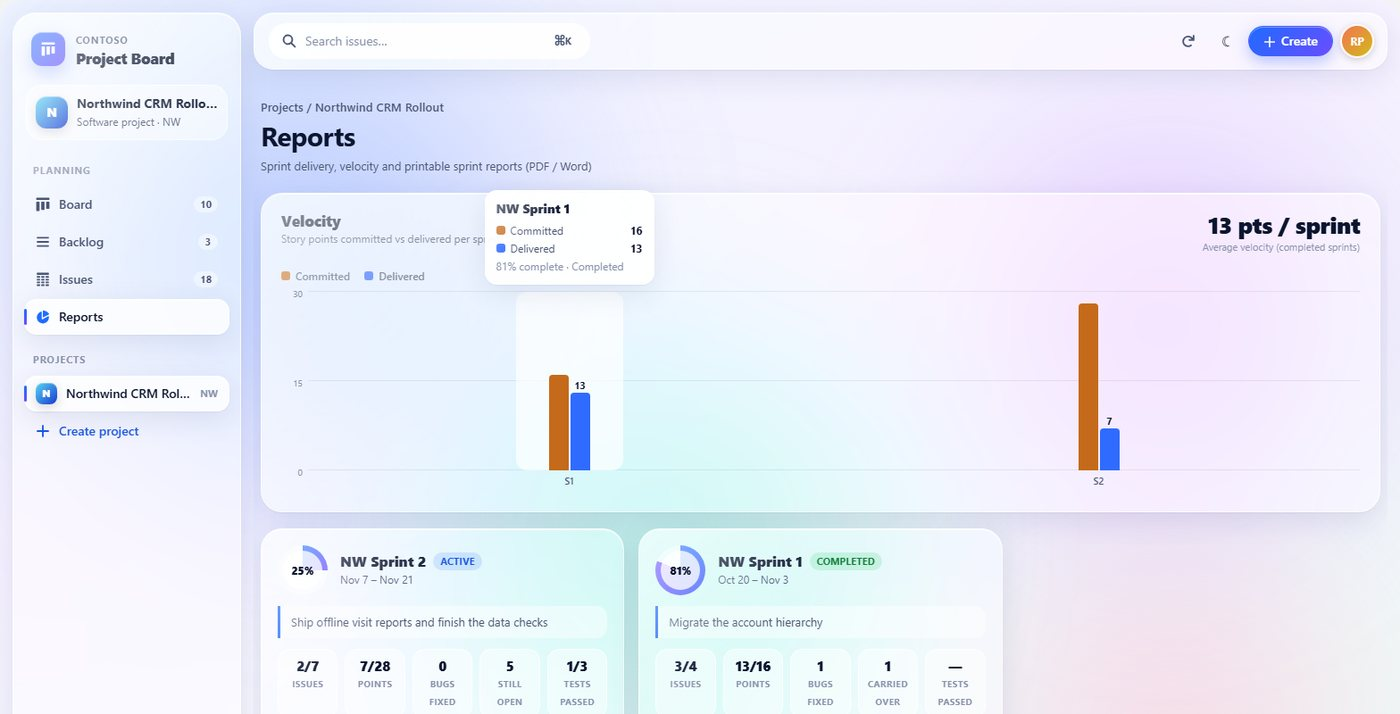
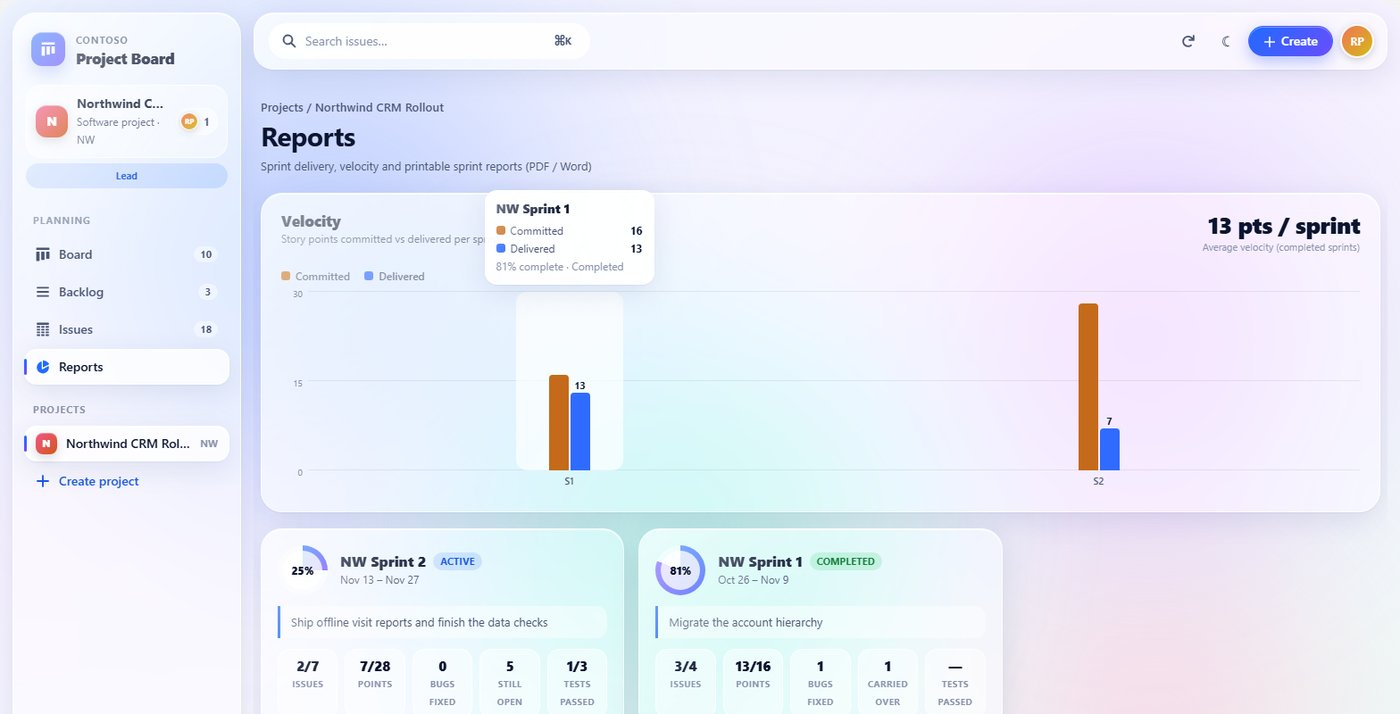
feat(portfolio): Project Board access, sign-off and keyboard on the case study
- New section: project membership with Apex managed sharing, recorded
  BRD sign-off, keyboard drag and drop with screen-reader announcements.
- Architecture layers, toolkit and practices updated.
- Screenshots refreshed from the demo org; new: keyboard move, members,
  issue workspace, sign-off and BRD PDF with the sign-off table.
- M portfolio facts updated to match the page.

diff --git a/salesforce-project-board.html b/salesforce-project-board.html
@@ -1,2 +1,2 @@
 <!DOCTYPE html>
-<html lang="en"><head><meta charset="utf-8"/><meta content="width=device-width,initial-scale=1" name="viewport"/><meta content="#070e19" name="theme-color"/><meta content="Technical case study: Salesforce Project Board by Ricardo Pinheiro. A Scrum-style board built on Salesforce with BRD and solution design, UAT test scripts, sprint reports and PDF / Word exports, in Apex, Lightning Web Components and Visualforce." name="description"/><meta content="index,follow" name="robots"/><link href="https://ricardo19-deve.github.io/salesforce-project-board.html" rel="canonical"/><meta content="Salesforce Project Board — Engineering Case Study | Ricardo Pinheiro" property="og:title"/><meta content="Scrum board, BRD, UAT test scripts and sprint reports built on Salesforce with Apex, LWC and Visualforce exports." property="og:description"/><meta content="article" property="og:type"/><meta content="https://ricardo19-deve.github.io/salesforce-project-board.html" property="og:url"/><meta content="https://ricardo19-deve.github.io/portrait.jpg" property="og:image"/><title>Salesforce Project Board — Engineering Case Study | Ricardo Pinheiro</title><link href="case-study.css" rel="stylesheet"/></head><body><div aria-hidden="true" class="scrollbar"></div><header class="top wrap"><a class="brand" href="index.html#projects">RP<span>.</span></a><nav aria-label="Page navigation" class="topnav"><a href="index.html#projects">← All projects</a><a href="index.html#certifications">Certifications</a><a href="index.html#contact">Connect</a></nav></header><main class="wrap"><section class="hero fade"><div class="eyebrow">ENGINEERING CASE STUDY / 02</div><h1>Salesforce Project Board<span class="gradient">.</span></h1><p class="lead">From requirement to release, inside Salesforce.</p><div class="status">Open-source module · Apex · Lightning Web Components · Visualforce · Experience Cloud</div></section><section aria-label="Project context" class="two fade"><div class="glass panel"><div class="small-label">THE CONTEXT</div><h2>What I set out to solve.</h2><p>Teams that deliver Salesforce changes often keep requirements in documents, tests in spreadsheets and the backlog in another tool. The links between a requirement, its test evidence and the sprint it shipped in get lost. This module brings them together on the platform the team already works in, published as a neutral open-source reference.</p></div><div class="glass panel"><div class="small-label">THE ENGINEERING QUESTION</div><h2>One place, every artefact linked.</h2><p>How can a team plan sprints, write the business requirements, run user acceptance tests and present what was delivered without leaving Salesforce, with every document traceable to the issue it belongs to?</p></div></section><section aria-label="Interactive architecture" class="architecture fade"><div class="section-heading"><div><div class="small-label">EXPLORE THE SYSTEM</div><h2 class="section-title">Architecture, <span class="gradient">layer by layer.</span></h2></div><p>Select a component to understand its responsibility. Simplified reference architecture, not a production infrastructure diagram.</p></div><div class="arch-layout"><div class="glass arch-map"><div class="arch-step"><span class="step-number">01</span><button aria-pressed="true" class="node active" data-detail="Lightning Web Components render the board, backlog, issue list, reports and the issue workspace. One design system with light and dark themes runs unchanged in a Lightning tab and in a full-screen Experience Cloud (LWR) portal." data-title="Board UI" type="button"><b>Board UI</b><span>Lightning Web Components</span></button></div><div aria-hidden="true" class="connector"></div><div class="arch-step"><span class="step-number">02</span><button aria-pressed="false" class="node" data-detail="Projects, sprints, issues, comments, BRDs, requirements and test cases. Issue keys come from a locked counter, ranks are fractional so a drag &amp; drop updates one record, and sprint snapshots keep committed versus delivered accurate after carry-over." data-title="Data model" type="button"><b>Data model</b><span>Seven custom objects</span></button></div><div aria-hidden="true" class="connector"></div><div class="arch-step"><span class="step-number">03</span><button aria-pressed="false" class="node" data-detail="Apex controllers run every query and write in user mode, behind a permission set. Updates sent by the browser pass a per-object field whitelist. Test cases can be generated from the acceptance criteria of the BRD." data-title="Apex services" type="button"><b>Apex services</b><span>User mode · whitelists</span></button></div><div aria-hidden="true" class="connector"></div><div class="arch-step"><span class="step-number">04</span><button aria-pressed="false" class="node" data-detail="Visualforce pages render the BRD, the test scripts and the sprint report as PDF or as an editable Word document. The figures match the Reports view, so what is presented is what the board shows." data-title="Document exports" type="button"><b>Document exports</b><span>Visualforce · PDF and Word</span></button></div></div><div aria-live="polite" class="glass panel detail"><div class="number" id="detail-num">LAYER 01 / 04</div><h3 id="detail-title">Board UI</h3><p id="detail-body">Lightning Web Components render the board, backlog, issue list, reports and the issue workspace. One design system with light and dark themes runs unchanged in a Lightning tab and in a full-screen Experience Cloud (LWR) portal.</p><div class="hint">↖ Select any architecture layer to explore</div></div></div></section><section aria-label="Planning and documentation" class="two fade"><div class="glass panel"><div class="small-label">PLANNING</div><h2>Board, backlog, sprints.</h2><p>A Kanban board of the active sprint with drag &amp; drop, quick filters and a progress ring. A backlog with sprint sections, an epics panel and inline quick create; completing a sprint moves open work to the backlog or the next sprint.</p><p>Every issue opens into a workspace with inline editing, comments, field history and tabs for its documents.</p></div><div class="glass panel"><div class="small-label">DOCUMENTATION</div><h2>Requirements that become tests.</h2><p>Each issue can carry a Business Requirements Document with solution design: impacted users and systems, numbered requirements with acceptance criteria, sign-off and solution screenshots.</p><p>UAT test scripts hold steps, expected and actual results, Pass / Fail / Blocked and evidence files. One click generates a test case for every acceptance criterion of the BRD, without AI.</p></div></section><section aria-label="Reports and design" class="two fade"><div class="glass panel"><div class="small-label">REPORTS &amp; EXPORTS</div><h2>Ready to present.</h2><p>A velocity chart compares committed and delivered points per sprint, and each sprint card shows completion, bugs fixed, carry-over and test pass rate.</p><p>The BRD, the test scripts and the sprint report export to PDF for presenting and to Word for editing, with the company name and logo configurable without code.</p></div><div class="glass panel"><div class="small-label">DESIGN SYSTEM</div><h2>Liquid glass, light and dark.</h2><p>Translucent surfaces, an animated background and spring-based motion, defined once as design tokens and inherited by every component. Motion is reduced automatically when the operating system asks for it.</p><p>The same components render in Lightning Experience and in an Experience Cloud (LWR) site. The chart colours were checked for colour-blind separation and contrast in both themes.</p></div></section><section aria-label="Screenshots" class="fade"><div class="small-label">SEE IT RUNNING</div><h2>Captured in a Developer Edition org.</h2><p class="shots-note">Fictitious demo data created by the seed script in the repository. Select an image to open it full size.</p><div class="shots"><figure class="shot"><a href="assets/salesforce-project-board/board.jpg" target="_blank" rel="noopener"><img alt="Board of the active sprint with drag &amp; drop, progress ring and BRD, test and file badges" decoding="async" loading="lazy" src="assets/salesforce-project-board/board.jpg"/></a><figcaption>Board: active sprint, progress ring, document badges</figcaption></figure><figure class="shot"><a href="assets/salesforce-project-board/board-dark.jpg" target="_blank" rel="noopener"><img alt="The same board in dark mode" decoding="async" loading="lazy" src="assets/salesforce-project-board/board-dark.jpg"/></a><figcaption>The same board in dark mode</figcaption></figure><figure class="shot"><a href="assets/salesforce-project-board/backlog.jpg" target="_blank" rel="noopener"><img alt="Backlog with sprint sections and an epics panel" decoding="async" loading="lazy" src="assets/salesforce-project-board/backlog.jpg"/></a><figcaption>Backlog: sprints and epics with progress</figcaption></figure><figure class="shot"><a href="assets/salesforce-project-board/brd.jpg" target="_blank" rel="noopener"><img alt="BRD editor with numbered requirements, acceptance criteria and sign-off" decoding="async" loading="lazy" src="assets/salesforce-project-board/brd.jpg"/></a><figcaption>BRD: requirements, acceptance criteria, sign-off</figcaption></figure><figure class="shot"><a href="assets/salesforce-project-board/test-scripts.jpg" target="_blank" rel="noopener"><img alt="Test scripts with steps and Pass, Fail and Blocked results" decoding="async" loading="lazy" src="assets/salesforce-project-board/test-scripts.jpg"/></a><figcaption>Test scripts generated from the BRD</figcaption></figure><figure class="shot"><a href="assets/salesforce-project-board/reports.jpg" target="_blank" rel="noopener"><img alt="Velocity chart of committed versus delivered points and sprint cards" decoding="async" loading="lazy" src="assets/salesforce-project-board/reports.jpg"/></a><figcaption>Reports: velocity and sprint cards</figcaption></figure><figure class="shot"><a href="assets/salesforce-project-board/sprint-report-pdf.jpg" target="_blank" rel="noopener"><img alt="Sprint report exported to PDF" decoding="async" loading="lazy" src="assets/salesforce-project-board/sprint-report-pdf.jpg"/></a><figcaption>Sprint report exported to PDF</figcaption></figure></div></section><section class="fade"><div class="glass panel"><div class="small-label">ENGINEERING PRACTICES</div><h2>Built to be handed over.</h2><p>Apex tests that run as a user with only the module permission set, Jest tests for the shared helpers, linting in continuous integration, header comments for future maintainers, a demo data script and documentation of the data model and configuration.</p></div><div class="small-label" style="margin-top:70px">TECHNICAL TOOLKIT</div><div class="tags"><span class="tag">Apex</span><span class="tag">Lightning Web Components</span><span class="tag">Visualforce PDF &amp; Word</span><span class="tag">SOQL user mode</span><span class="tag">Custom objects</span><span class="tag">Salesforce Files</span><span class="tag">Experience Cloud (LWR)</span><span class="tag">HTML5 drag &amp; drop</span><span class="tag">CSS design tokens</span><span class="tag">Apex tests</span><span class="tag">Jest</span></div><div class="glass panel"><div class="small-label">CURRENT STATE / NEXT EVIDENCE</div><h2>What the evidence supports.</h2><p>The module is published in the open-source Salesforce CRM Wizards repository and deploys to a Salesforce Developer Edition org. The screenshots above come from such an org with fictitious data.</p></div><div class="links"><a class="linkbtn" href="https://github.com/Ricardo19-Deve/salesforce-crm-wizards/blob/main/docs/project-board.md" rel="noopener noreferrer" target="_blank">View source on GitHub ↗</a><a class="linkbtn" href="https://www.linkedin.com/in/ricardoappinheiro/" rel="noopener noreferrer" target="_blank">Discuss this project ↗</a><a class="linkbtn" href="index.html#projects">Back to portfolio ↗</a></div></section></main><footer class="footer wrap"><span>Ricardo Pinheiro · Open-source engineering case study</span><span>Designed to be explored, not just read.</span></footer><script defer="" src="case-study.js"></script><script type="module" src="./m-analytics-bootstrap.mjs?v=34"></script></body></html>
+<html lang="en"><head><meta charset="utf-8"/><meta content="width=device-width,initial-scale=1" name="viewport"/><meta content="#070e19" name="theme-color"/><meta content="Technical case study: Salesforce Project Board by Ricardo Pinheiro. A Scrum-style board built on Salesforce with project membership, a recorded BRD sign-off workflow, UAT test scripts, sprint reports, keyboard-accessible drag and drop and PDF / Word exports, in Apex, Lightning Web Components and Visualforce." name="description"/><meta content="index,follow" name="robots"/><link href="https://ricardo19-deve.github.io/salesforce-project-board.html" rel="canonical"/><meta content="Salesforce Project Board — Engineering Case Study | Ricardo Pinheiro" property="og:title"/><meta content="Scrum board, BRD, UAT test scripts and sprint reports built on Salesforce with Apex, LWC and Visualforce exports." property="og:description"/><meta content="article" property="og:type"/><meta content="https://ricardo19-deve.github.io/salesforce-project-board.html" property="og:url"/><meta content="https://ricardo19-deve.github.io/portrait.jpg" property="og:image"/><title>Salesforce Project Board — Engineering Case Study | Ricardo Pinheiro</title><link href="case-study.css" rel="stylesheet"/></head><body><div aria-hidden="true" class="scrollbar"></div><header class="top wrap"><a class="brand" href="index.html#projects">RP<span>.</span></a><nav aria-label="Page navigation" class="topnav"><a href="index.html#projects">← All projects</a><a href="index.html#certifications">Certifications</a><a href="index.html#contact">Connect</a></nav></header><main class="wrap"><section class="hero fade"><div class="eyebrow">ENGINEERING CASE STUDY / 02</div><h1>Salesforce Project Board<span class="gradient">.</span></h1><p class="lead">From requirement to release, inside Salesforce.</p><div class="status">Open-source module · Apex · Lightning Web Components · Visualforce · Experience Cloud</div></section><section aria-label="Project context" class="two fade"><div class="glass panel"><div class="small-label">THE CONTEXT</div><h2>What I set out to solve.</h2><p>Teams that deliver Salesforce changes often keep requirements in documents, tests in spreadsheets and the backlog in another tool. The links between a requirement, its test evidence and the sprint it shipped in get lost. This module brings them together on the platform the team already works in, published as a neutral open-source reference.</p></div><div class="glass panel"><div class="small-label">THE ENGINEERING QUESTION</div><h2>One place, every artefact linked.</h2><p>How can a team plan sprints, write the business requirements, run user acceptance tests and present what was delivered without leaving Salesforce, with every document traceable to the issue it belongs to?</p></div></section><section aria-label="Interactive architecture" class="architecture fade"><div class="section-heading"><div><div class="small-label">EXPLORE THE SYSTEM</div><h2 class="section-title">Architecture, <span class="gradient">layer by layer.</span></h2></div><p>Select a component to understand its responsibility. Simplified reference architecture, not a production infrastructure diagram.</p></div><div class="arch-layout"><div class="glass arch-map"><div class="arch-step"><span class="step-number">01</span><button aria-pressed="true" class="node active" data-detail="Lightning Web Components render the board, backlog, issue list, reports and the issue workspace. One design system with light and dark themes runs unchanged in a Lightning tab and in a full-screen Experience Cloud (LWR) portal." data-title="Board UI" type="button"><b>Board UI</b><span>Lightning Web Components</span></button></div><div aria-hidden="true" class="connector"></div><div class="arch-step"><span class="step-number">02</span><button aria-pressed="false" class="node" data-detail="Projects and their members, sprints, issues, comments, BRDs with their sign-offs, requirements and test cases. Issue keys come from a locked counter, ranks are fractional so a drag &amp; drop updates one record, and sprint snapshots keep committed versus delivered accurate after carry-over." data-title="Data model" type="button"><b>Data model</b><span>Nine custom objects</span></button></div><div aria-hidden="true" class="connector"></div><div class="arch-step"><span class="step-number">03</span><button aria-pressed="false" class="node" data-detail="Projects and BRDs are private: Apex managed sharing gives each project member access by role (Lead, Member, Viewer). Controllers run every query and write in user mode and check the role first; one small system class handles the shares and recorded sign-off decisions. Updates sent by the browser pass a per-object field whitelist." data-title="Apex services" type="button"><b>Apex services</b><span>Membership · user mode</span></button></div><div aria-hidden="true" class="connector"></div><div class="arch-step"><span class="step-number">04</span><button aria-pressed="false" class="node" data-detail="Visualforce pages render the BRD, the test scripts and the sprint report as PDF or as an editable Word document. The figures match the Reports view, so what is presented is what the board shows." data-title="Document exports" type="button"><b>Document exports</b><span>Visualforce · PDF and Word</span></button></div></div><div aria-live="polite" class="glass panel detail"><div class="number" id="detail-num">LAYER 01 / 04</div><h3 id="detail-title">Board UI</h3><p id="detail-body">Lightning Web Components render the board, backlog, issue list, reports and the issue workspace. One design system with light and dark themes runs unchanged in a Lightning tab and in a full-screen Experience Cloud (LWR) portal.</p><div class="hint">↖ Select any architecture layer to explore</div></div></div></section><section aria-label="Planning and documentation" class="two fade"><div class="glass panel"><div class="small-label">PLANNING</div><h2>Board, backlog, sprints.</h2><p>A Kanban board of the active sprint with drag &amp; drop, quick filters and a progress ring. A backlog with sprint sections, an epics panel and inline quick create; completing a sprint moves open work to the backlog or the next sprint.</p><p>Every issue opens into a workspace with inline editing, comments, field history and tabs for its documents.</p></div><div class="glass panel"><div class="small-label">DOCUMENTATION</div><h2>Requirements that become tests.</h2><p>Each issue can carry a Business Requirements Document with solution design: impacted users and systems, numbered requirements with acceptance criteria, solution screenshots and a recorded sign-off.</p><p>UAT test scripts hold steps, expected and actual results, Pass / Fail / Blocked and evidence files. One click generates a test case for every acceptance criterion of the BRD, without AI.</p></div></section><section aria-label="Reports and design" class="two fade"><div class="glass panel"><div class="small-label">REPORTS &amp; EXPORTS</div><h2>Ready to present.</h2><p>A velocity chart compares committed and delivered points per sprint, and each sprint card shows completion, bugs fixed, carry-over and test pass rate.</p><p>The BRD, the test scripts and the sprint report export to PDF for presenting and to Word for editing, with the company name and logo configurable without code.</p></div><div class="glass panel"><div class="small-label">DESIGN SYSTEM</div><h2>Liquid glass, light and dark.</h2><p>Translucent surfaces, an animated background and spring-based motion, defined once as design tokens and inherited by every component. Motion is reduced automatically when the operating system asks for it.</p><p>The same components render in Lightning Experience and in an Experience Cloud (LWR) site. The chart colours were checked for colour-blind separation and contrast in both themes.</p></div></section><section aria-label="Access, sign-off and accessibility" class="two fade"><div class="glass panel"><div class="small-label">ACCESS &amp; GOVERNANCE</div><h2>Only members see a project.</h2><p>Projects are private. Each one has its own members: Leads manage members and plan, Members edit and can be assignees, Viewers read and export. Access is granted through Apex managed sharing that follows the member list, so removing a person removes their access.</p><p>BRD sign-off is a recorded decision, not typed text. Each role has a named approver who approves, or requests changes with a comment, under their own login. The document is locked while it is out for approval, approvers get a notification, and reopening an approved BRD starts a new version.</p></div><div class="glass panel"><div class="small-label">ACCESSIBILITY</div><h2>Drag and drop, without a mouse.</h2><p>Every card and backlog row can be moved from the keyboard: Space picks it up, the arrow keys carry it, Space drops it and Escape cancels. One tab stop per list keeps navigation short, and each move is announced to screen readers.</p><p>Dialogs keep the focus inside while they are open and return it to the card when they close. The keyboard flow was checked in a real org with automated browser tests.</p></div></section><section aria-label="Screenshots" class="fade"><div class="small-label">SEE IT RUNNING</div><h2>Captured in a Developer Edition org.</h2><p class="shots-note">Fictitious demo data created by the seed script in the repository. Select an image to open it full size.</p><div class="shots"><figure class="shot"><a href="assets/salesforce-project-board/board.jpg" target="_blank" rel="noopener"><img alt="Board of the active sprint with drag &amp; drop, progress ring and BRD, test and file badges" decoding="async" loading="lazy" src="assets/salesforce-project-board/board.jpg"/></a><figcaption>Board: active sprint, progress ring, document badges</figcaption></figure><figure class="shot"><a href="assets/salesforce-project-board/board-dark.jpg" target="_blank" rel="noopener"><img alt="The same board in dark mode" decoding="async" loading="lazy" src="assets/salesforce-project-board/board-dark.jpg"/></a><figcaption>The same board in dark mode</figcaption></figure><figure class="shot"><a href="assets/salesforce-project-board/backlog.jpg" target="_blank" rel="noopener"><img alt="Backlog with sprint sections and an epics panel" decoding="async" loading="lazy" src="assets/salesforce-project-board/backlog.jpg"/></a><figcaption>Backlog: sprints and epics with progress</figcaption></figure><figure class="shot"><a href="assets/salesforce-project-board/keyboard-move.jpg" target="_blank" rel="noopener"><img alt="A card lifted with the keyboard, with the target column highlighted" decoding="async" loading="lazy" src="assets/salesforce-project-board/keyboard-move.jpg"/></a><figcaption>Keyboard move: Space lifts the card, arrows pick the column</figcaption></figure><figure class="shot"><a href="assets/salesforce-project-board/members.jpg" target="_blank" rel="noopener"><img alt="Project members dialog with Lead, Member and Viewer roles" decoding="async" loading="lazy" src="assets/salesforce-project-board/members.jpg"/></a><figcaption>Members and roles: only members see the project</figcaption></figure><figure class="shot"><a href="assets/salesforce-project-board/issue.jpg" target="_blank" rel="noopener"><img alt="Issue workspace with inline editing, comments and tabs for BRD, test scripts and attachments" decoding="async" loading="lazy" src="assets/salesforce-project-board/issue.jpg"/></a><figcaption>Issue workspace: inline editing, comments, document tabs</figcaption></figure><figure class="shot"><a href="assets/salesforce-project-board/brd.jpg" target="_blank" rel="noopener"><img alt="BRD out for approval with the status, the lock banner and the sign-offs waiting for the user" decoding="async" loading="lazy" src="assets/salesforce-project-board/brd.jpg"/></a><figcaption>BRD out for approval: status and lock</figcaption></figure><figure class="shot"><a href="assets/salesforce-project-board/sign-off.jpg" target="_blank" rel="noopener"><img alt="Sign-off rows: one approved with a comment, one pending with Approve and Request changes, one not required" decoding="async" loading="lazy" src="assets/salesforce-project-board/sign-off.jpg"/></a><figcaption>Sign-off: named approvers, recorded decisions</figcaption></figure><figure class="shot"><a href="assets/salesforce-project-board/test-scripts.jpg" target="_blank" rel="noopener"><img alt="Test scripts with steps and Pass, Fail and Blocked results" decoding="async" loading="lazy" src="assets/salesforce-project-board/test-scripts.jpg"/></a><figcaption>Test scripts generated from the BRD</figcaption></figure><figure class="shot"><a href="assets/salesforce-project-board/reports.jpg" target="_blank" rel="noopener"><img alt="Velocity chart of committed versus delivered points and sprint cards" decoding="async" loading="lazy" src="assets/salesforce-project-board/reports.jpg"/></a><figcaption>Reports: velocity and sprint cards</figcaption></figure><figure class="shot"><a href="assets/salesforce-project-board/sprint-report-pdf.jpg" target="_blank" rel="noopener"><img alt="Sprint report exported to PDF" decoding="async" loading="lazy" src="assets/salesforce-project-board/sprint-report-pdf.jpg"/></a><figcaption>Sprint report exported to PDF</figcaption></figure><figure class="shot"><a href="assets/salesforce-project-board/brd-pdf.jpg" target="_blank" rel="noopener"><img alt="BRD exported to PDF with the sign-off table of approvers, decisions and dates" decoding="async" loading="lazy" src="assets/salesforce-project-board/brd-pdf.jpg"/></a><figcaption>BRD PDF with the recorded sign-off</figcaption></figure></div></section><section class="fade"><div class="glass panel"><div class="small-label">ENGINEERING PRACTICES</div><h2>Built to be handed over.</h2><p>Apex tests that run as a user with only the module permission set, and access tests with separate Lead, Member and outsider users. Jest tests for the shared helpers, linting in continuous integration, header comments for future maintainers, a demo data script and documentation of the data model and configuration.</p></div><div class="small-label" style="margin-top:70px">TECHNICAL TOOLKIT</div><div class="tags"><span class="tag">Apex</span><span class="tag">Lightning Web Components</span><span class="tag">Visualforce PDF &amp; Word</span><span class="tag">SOQL user mode</span><span class="tag">Apex managed sharing</span><span class="tag">Custom notifications</span><span class="tag">Keyboard accessibility (ARIA)</span><span class="tag">Custom objects</span><span class="tag">Salesforce Files</span><span class="tag">Experience Cloud (LWR)</span><span class="tag">HTML5 drag &amp; drop</span><span class="tag">CSS design tokens</span><span class="tag">Apex tests</span><span class="tag">Jest</span></div><div class="glass panel"><div class="small-label">CURRENT STATE / NEXT EVIDENCE</div><h2>What the evidence supports.</h2><p>The module is published in the open-source Salesforce CRM Wizards repository and deploys to a Salesforce Developer Edition org. The screenshots above come from such an org with fictitious data.</p></div><div class="links"><a class="linkbtn" href="https://github.com/Ricardo19-Deve/salesforce-crm-wizards/blob/main/docs/project-board.md" rel="noopener noreferrer" target="_blank">View source on GitHub ↗</a><a class="linkbtn" href="https://www.linkedin.com/in/ricardoappinheiro/" rel="noopener noreferrer" target="_blank">Discuss this project ↗</a><a class="linkbtn" href="index.html#projects">Back to portfolio ↗</a></div></section></main><footer class="footer wrap"><span>Ricardo Pinheiro · Open-source engineering case study</span><span>Designed to be explored, not just read.</span></footer><script defer="" src="case-study.js"></script><script type="module" src="./m-analytics-bootstrap.mjs?v=34"></script></body></html>

diff --git a/m-ai/README.md b/m-ai/README.md
@@ -60,7 +60,7 @@ Deployed on 2 November 2026 to https://m-portfolio-companion.ricardopacheco-pinh
 - `director.mjs`: bounded automatic intent prompt and operation; shares the existing HTTP, abort, timeout and quota lifecycle in `core.mjs`.
 - `../m-world-director-protocol.mjs`: shared exact-key request/reply validators and a dynamic strict schema.
 - `server.mjs`: loopback Node HTTP adapter for local development.
-- `portfolio-context.mjs`: manually curated public facts from `../index.html` and its case-study pages, reviewed 2026-11-13 (adds the open-source Salesforce CRM Wizards and Salesforce Project Board projects and marks Word Pour as published, matching the page). Update this snapshot when the public page changes. Store-review claims are page snapshots, not live verification. Project facts are looked up by the exact component title in `../m-world-context.mjs`, so keep both titles identical.
+- `portfolio-context.mjs`: manually curated public facts from `../index.html` and its case-study pages, reviewed 2026-11-19 (adds the open-source Salesforce CRM Wizards and Salesforce Project Board projects, including Project Board membership, sign-off and keyboard access, and marks Word Pour as published, matching the page). Update this snapshot when the public page changes. Store-review claims are page snapshots, not live verification. Project facts are looked up by the exact component title in `../m-world-context.mjs`, so keep both titles identical.
 - `backend.test.mjs`: original offline chat security, quota and HTTP regressions.
 - `director.test.mjs` and `../m-world-director-protocol.test.mjs`: offline automatic request, protocol, cancellation and persistent quota checks.
 - `wrangler.jsonc`: proposed Worker name and SQLite binding; no account identifiers or credentials.
